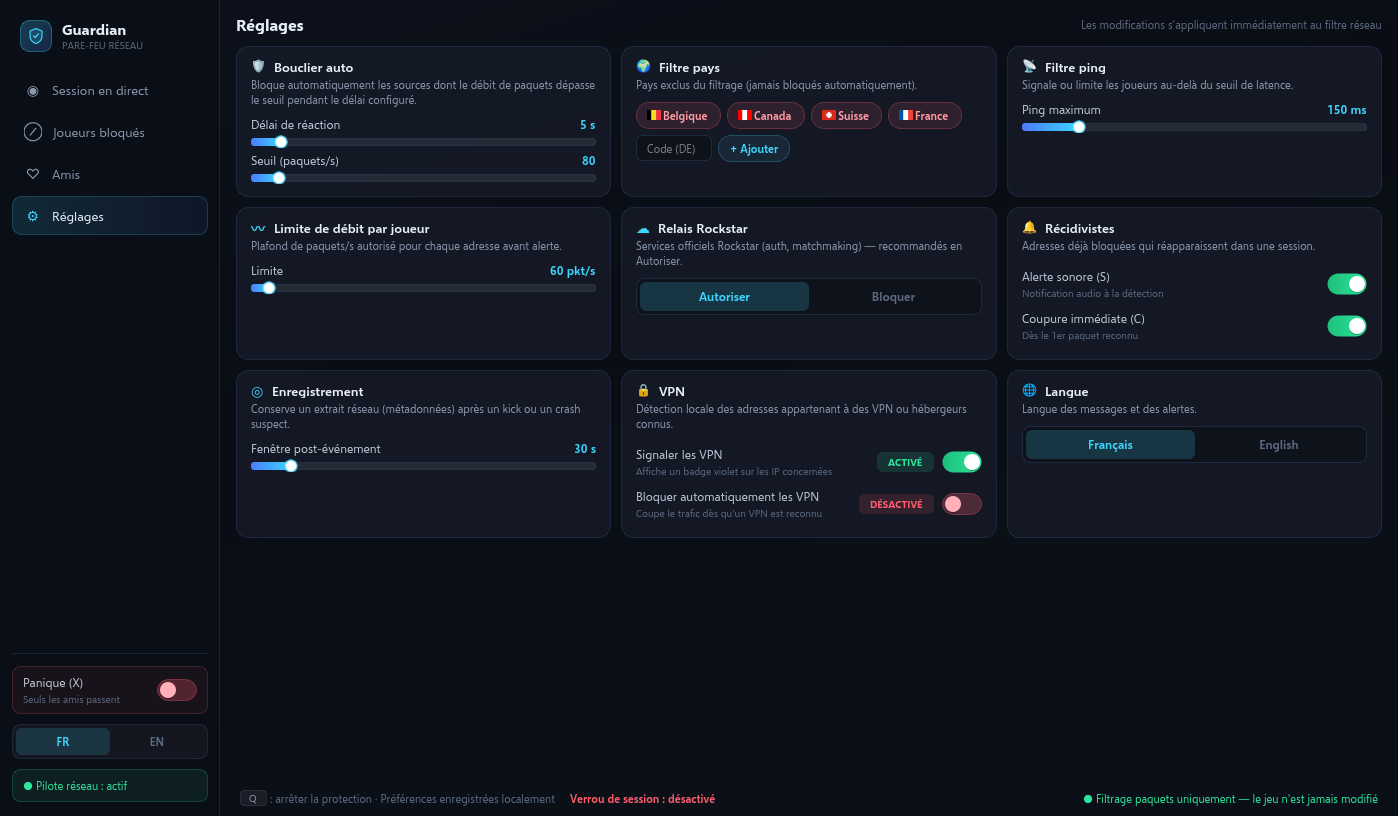
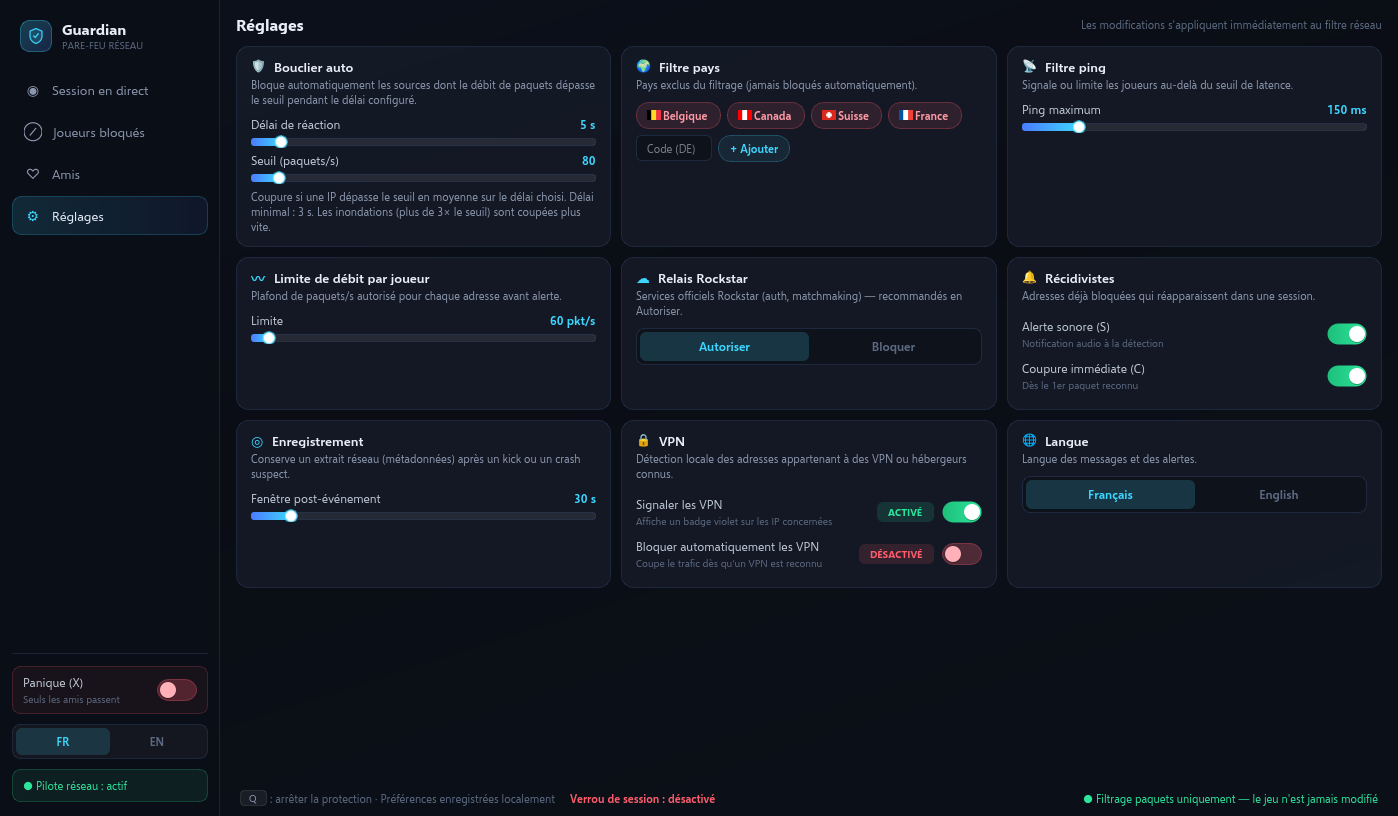
Lot 5 : texte d'aide du bouclier (FR/EN) dans Réglages + test, captures régénérées

diff --git a/guardian/gui/window.py b/guardian/gui/window.py
@@ -810,6 +810,12 @@ class SettingsPage(QWidget):
         lay.addWidget(self.shield_seconds)
         lay.addSpacing(5)  # .field margin-bottom 9 px moins le débord de la poignée
         lay.addWidget(self.shield_pps)
+        lay.addSpacing(5)
+        from util.i18n import t
+
+        self.shield_help = label(t("gui.shield_help"), "setDesc")
+        self.shield_help.setWordWrap(True)
+        lay.addWidget(self.shield_help)
         lay.addStretch(1)
         grid.addWidget(f, 0, 0)
         f, lay = set_card(
@@ -1018,9 +1024,10 @@ class SettingsPage(QWidget):
         self.relay_block.setChecked(snap.relay_block)
         self.sound.set_state(snap.offender_sound)
         self.cut.set_state(snap.offender_drop)
-        from util.i18n import get_language
+        from util.i18n import get_language, t
 
         lang = get_language()
+        self.shield_help.setText(t("gui.shield_help"))
         self.lang_fr.setChecked(lang == "fr")
         self.lang_en.setChecked(lang == "en")
 

diff --git a/guardian/util/i18n.py b/guardian/util/i18n.py
@@ -487,6 +487,14 @@ STRINGS: dict[str, dict[str, str]] = {
         "fr": "Blocage refusé : {ip} est un serveur Rockstar (vous perdriez la session)",
         "en": "Block refused: {ip} is a Rockstar server (you would lose the session)",
     },
+    "gui.shield_help": {
+        "fr": "Coupure si une IP dépasse le seuil en moyenne sur le délai choisi. "
+        "Délai minimal : 3 s. Les inondations (plus de 3× le seuil) sont coupées "
+        "plus vite.",
+        "en": "Cut off when an IP exceeds the threshold on average over the chosen "
+        "delay. Minimum delay: 3 s. Floods (over 3× the threshold) are cut off "
+        "faster.",
+    },
     "live.ev.auto_toggled": {
         "fr": "Bouclier auto : {state}",
         "en": "Auto shield: {state}",

diff --git a/tests/test_lot5_gui.py b/tests/test_lot5_gui.py
@@ -310,3 +310,18 @@ def test_relay_allowed_is_green(win):
     win.refresh()
     assert win.live.relay.pill.text() == "AUTORISÉ"
     assert win.live.relay.pill.objectName() == "pillInfo"  # cyan, comme la maquette
+
+
+def test_settings_shield_help_text_fr_en(qtbot, win):
+    from util.i18n import get_language, set_language
+
+    before = get_language()
+    try:
+        win.settings.lang_fr.click()
+        fr = win.settings.shield_help.text()
+        assert "moyenne" in fr and "3 s" in fr and "inondations" in fr
+        win.settings.lang_en.click()
+        en = win.settings.shield_help.text()
+        assert "average" in en and "3 s" in en and "Floods" in en
+    finally:
+        set_language(before, persist=False)
